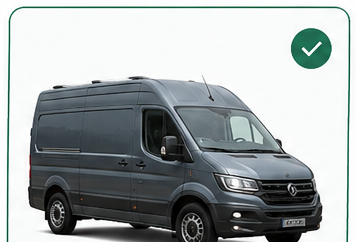
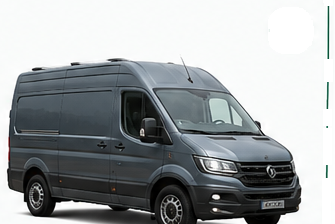
Remove the baked-in selection state from the panel van image
The panel van was the selected card in the source mockup, so its crop
carried the green border and the green tick. With selection now drawn by
CSS, that meant one card permanently looked chosen. Masked every
saturated green pixel, dilated the mask to catch the antialiasing, filled
white and re-trimmed. Zero green remaining.

Also collapsed the credit line: seven repetitions of 'generated (own
work)' becomes one when every image shares a source.

diff --git a/scripts/build_site.py b/scripts/build_site.py
@@ -176,7 +176,12 @@ def vehicle_picker():
 
     tail = ""
     if credits:
-        tail = ('<p class="vcredit">Vehicle images: ' + " &middot; ".join(credits) + "</p>")
+        sources = {c.split(": ", 1)[1] for c in credits}
+        if len(sources) == 1:
+            tail = f'<p class="vcredit">Vehicle images: {sources.pop()}</p>'
+        else:
+            tail = ('<p class="vcredit">Vehicle images: '
+                    + " &middot; ".join(credits) + "</p>")
 
     grid = ('<div class="vgrid" role="radiogroup" aria-label="Vehicle type">\n'
             + "\n".join(cards) + "\n</div>" + tail)
